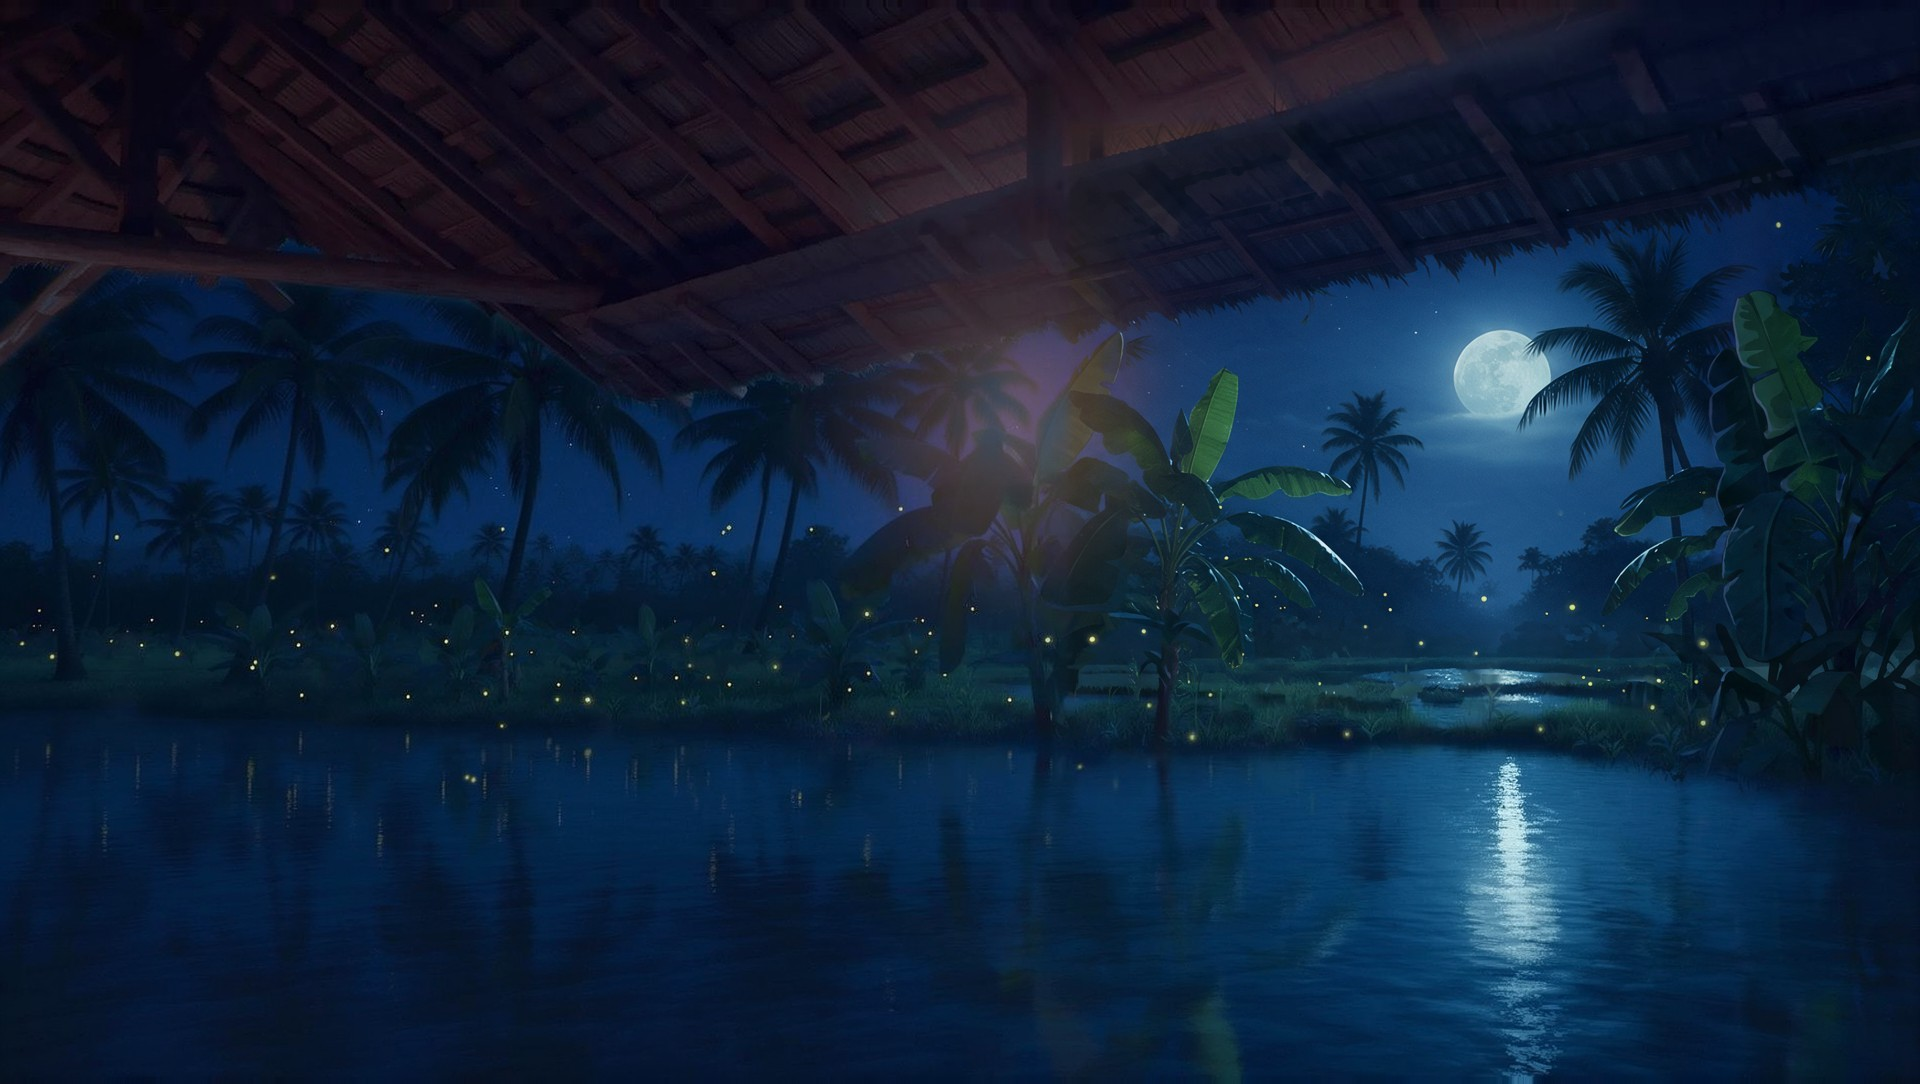
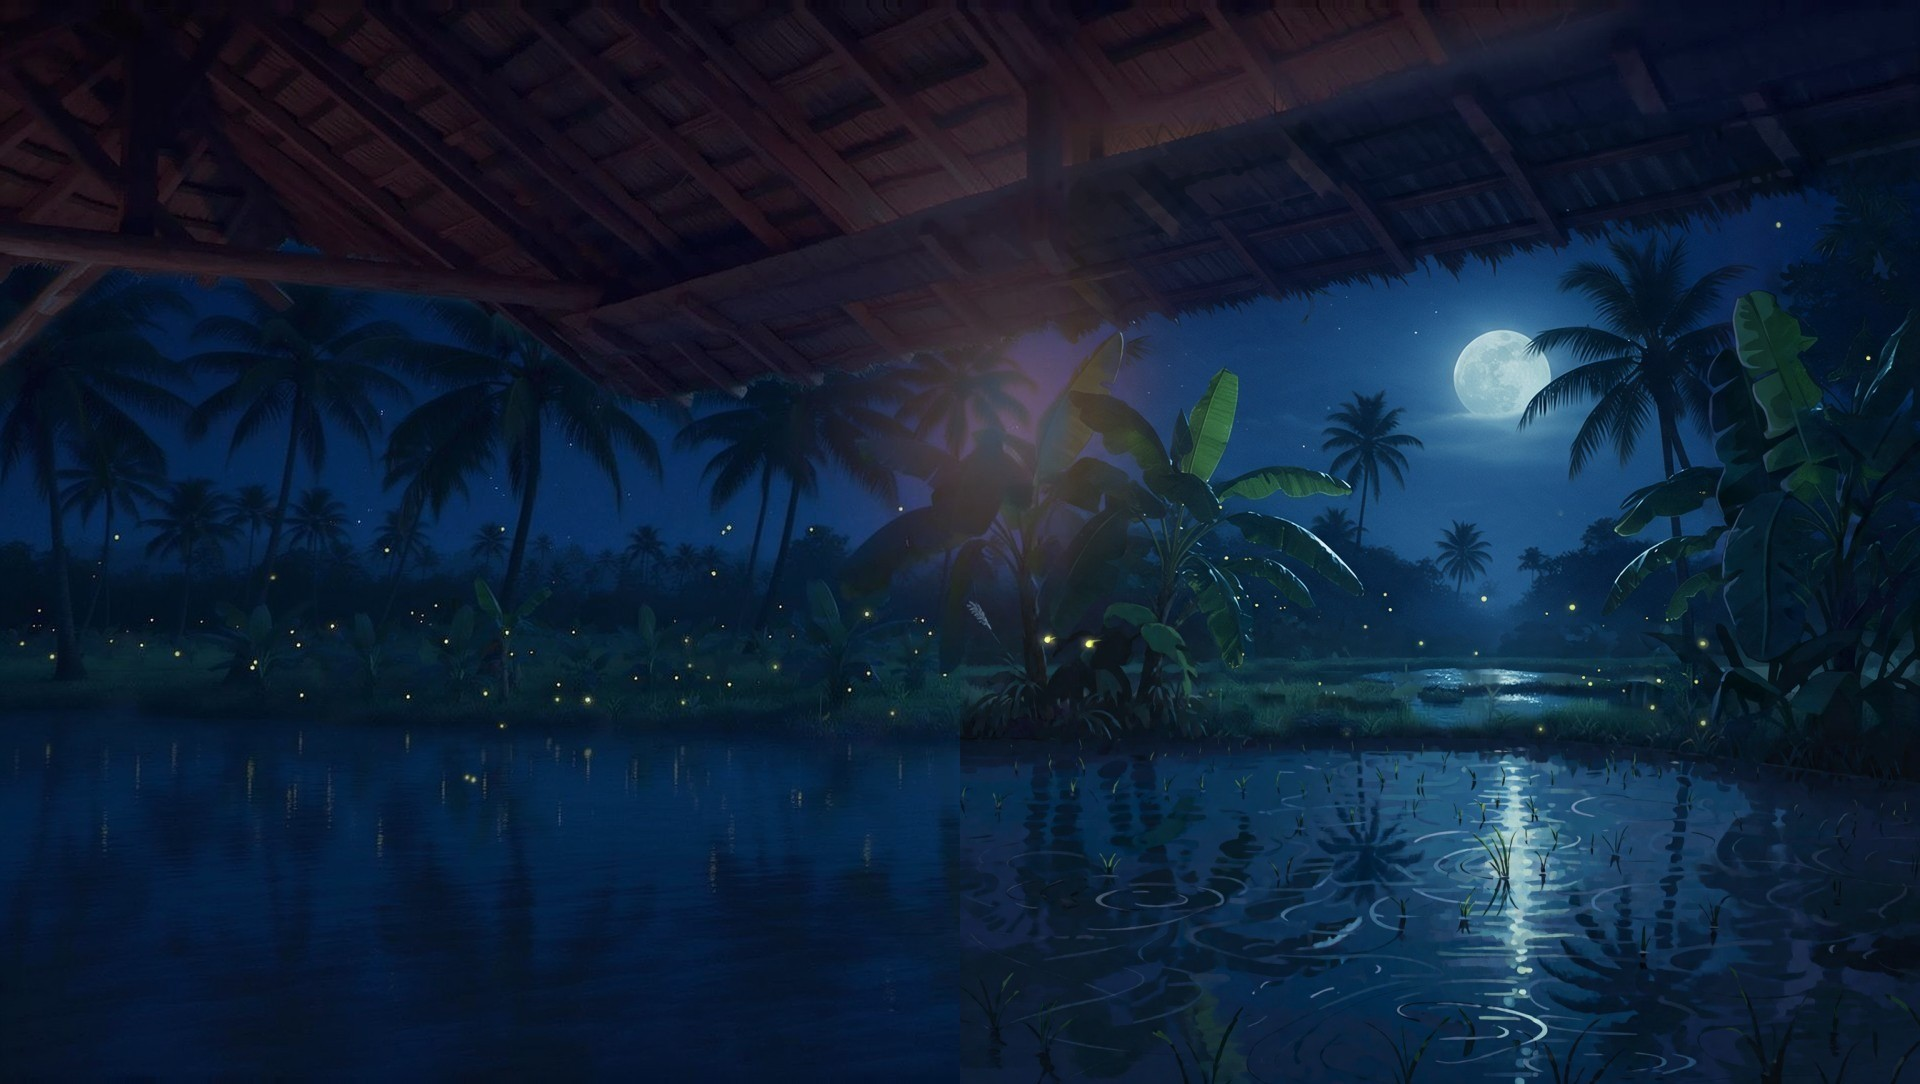
Stilt house: detailed water behind the balcony railing
The outpainted paddy under the railing was smooth and read as blur at
full parallax. Repainted that band with Krea 2 (partial-strength masked
inpaint): ripples, reeds and palm reflections, same moon path. v=11.

Claude-Session: https://claude.ai/code/session_01WmePPEVtycNtDwciTC66yT

diff --git a/public/index.html b/public/index.html
@@ -449,7 +449,7 @@ function framesFor(key){if(!LABFR||!LABFR[key])return null;if(FRM[key])return FR
     return Promise.all([...[...Array(j.n).keys()].flatMap(i=>[loadTex(dir+'/on_'+id(i)+'.jpg'),loadTex(dir+'/off_'+id(i)+'.jpg')]),
       ...[...Array(j.n-1).keys()].flatMap(i=>[loadTex(dir+'/fab_'+id(i)+'.png'),loadTex(dir+'/fba_'+id(i)+'.png')])])}).then(a=>{const m=2*F.n,A=a.slice(0,m),B=a.slice(m);
       F.on=A.filter((_,i)=>i%2==0);F.off=A.filter((_,i)=>i%2==1);F.fab=B.filter((_,i)=>i%2==0);F.fba=B.filter((_,i)=>i%2==1);F.ready=true}).catch(()=>{});return F}
-function texFor(key){if(!cache.has(key))cache.set(key,Promise.all(FILES.map(n=>loadTex(((LAB&&LAB[key])||key)+'/'+n+(/^(out_|mask)/.test(n)?'?v=10':'')))).then(a=>Object.fromEntries(FILES.map((n,i)=>[n.split('.')[0],a[i]]))));return cache.get(key)}
+function texFor(key){if(!cache.has(key))cache.set(key,Promise.all(FILES.map(n=>loadTex(((LAB&&LAB[key])||key)+'/'+n+(/^(out_|mask)/.test(n)?'?v=11':'')))).then(a=>Object.fromEntries(FILES.map((n,i)=>[n.split('.')[0],a[i]]))));return cache.get(key)}
 function evict(keep){for(const [k,p] of cache)if(!keep.includes(k)){cache.delete(k);p.then(T=>Object.values(T).forEach(t=>t.dispose()))}}
 const tvCan=document.createElement('canvas');tvCan.width=128;tvCan.height=96;const tvCtx=tvCan.getContext('2d');
 const tTV=new THREE.CanvasTexture(tvCan);tTV.minFilter=THREE.LinearFilter;tTV.generateMipmaps=false;

diff --git a/public/lab.html b/public/lab.html
@@ -450,7 +450,7 @@ function framesFor(key){if(!LABFR||!LABFR[key])return null;if(FRM[key])return FR
     return Promise.all([...[...Array(j.n).keys()].flatMap(i=>[loadTex(dir+'/on_'+id(i)+'.jpg'),loadTex(dir+'/off_'+id(i)+'.jpg')]),
       ...[...Array(j.n-1).keys()].flatMap(i=>[loadTex(dir+'/fab_'+id(i)+'.png'),loadTex(dir+'/fba_'+id(i)+'.png')])])}).then(a=>{const m=2*F.n,A=a.slice(0,m),B=a.slice(m);
       F.on=A.filter((_,i)=>i%2==0);F.off=A.filter((_,i)=>i%2==1);F.fab=B.filter((_,i)=>i%2==0);F.fba=B.filter((_,i)=>i%2==1);F.ready=true}).catch(()=>{});return F}
-function texFor(key){if(!cache.has(key))cache.set(key,Promise.all(FILES.map(n=>loadTex(((LAB&&LAB[key])||key)+'/'+n+(/^(out_|mask)/.test(n)?'?v=10':'')))).then(a=>Object.fromEntries(FILES.map((n,i)=>[n.split('.')[0],a[i]]))));return cache.get(key)}
+function texFor(key){if(!cache.has(key))cache.set(key,Promise.all(FILES.map(n=>loadTex(((LAB&&LAB[key])||key)+'/'+n+(/^(out_|mask)/.test(n)?'?v=11':'')))).then(a=>Object.fromEntries(FILES.map((n,i)=>[n.split('.')[0],a[i]]))));return cache.get(key)}
 function evict(keep){for(const [k,p] of cache)if(!keep.includes(k)){cache.delete(k);p.then(T=>Object.values(T).forEach(t=>t.dispose()))}}
 const tvCan=document.createElement('canvas');tvCan.width=128;tvCan.height=96;const tvCtx=tvCan.getContext('2d');
 const tTV=new THREE.CanvasTexture(tvCan);tTV.minFilter=THREE.LinearFilter;tTV.generateMipmaps=false;
